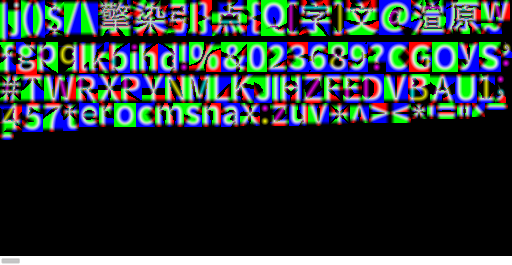
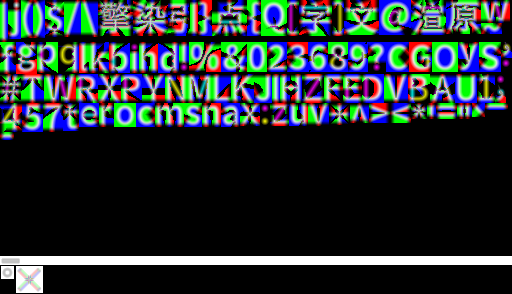
test(ui): cook Bonus punctuation into the test font
Cook U+00B7 and U+00D7 from NotoSansSC-Regular.ttf at em32/range4 and append their glyph rectangles without changing old atlas pixels, CSV rows or metadata. No fixture text, font import default or other font changes.

The focused Bonus regression fails on the old atlas with 4 missing glyphs and passes with zero on NVIDIA L4 Vulkan. Actual Bonus card inspected before reference recording; no references in this head. Two independent control fonts retain identical cooked bytes, glyphs, charset, runtime mode, stamps and hashes.

Amp-Thread-ID: https://ampcode.com/threads/T-01a1e4a3-f07c-7009-8b4d-eb4917dae2d6

diff --git a/crates/og-tests-ui/tests/document_frames.rs b/crates/og-tests-ui/tests/document_frames.rs
@@ -297,3 +297,19 @@ fn engine_documents_match_their_reference_frames() {
     }
     assert!(failures.is_empty(), "{}", failures.join("\n"));
 }
+
+#[test]
+#[ignore = "requires GPU"]
+fn racing_bonus_fixture_draws_all_its_glyphs() {
+    let (docs, messages) = engine_documents(&["src/ui/components", "src/ui/screens"]);
+    let doc = docs
+        .iter()
+        .find(|doc| doc.path == "src/ui/components/racing/bonus.svelte")
+        .expect("the Bonus fixture");
+    let mut scene = RenderScene::new();
+    let mut ui = ui_with_font(add_test_font(&mut scene));
+    let picture = populated_preview(&mut ui, &mut scene, &docs, doc, &messages, 1280.0, 720.0);
+    let rendered = render_document(&ui, doc, &mut scene, 1280, 720, picture);
+    save_actual("racing-bonus-font.png", &rendered.image);
+    assert_eq!(rendered.stats.missing_glyphs, 0, "{:?}", rendered.info);
+}
